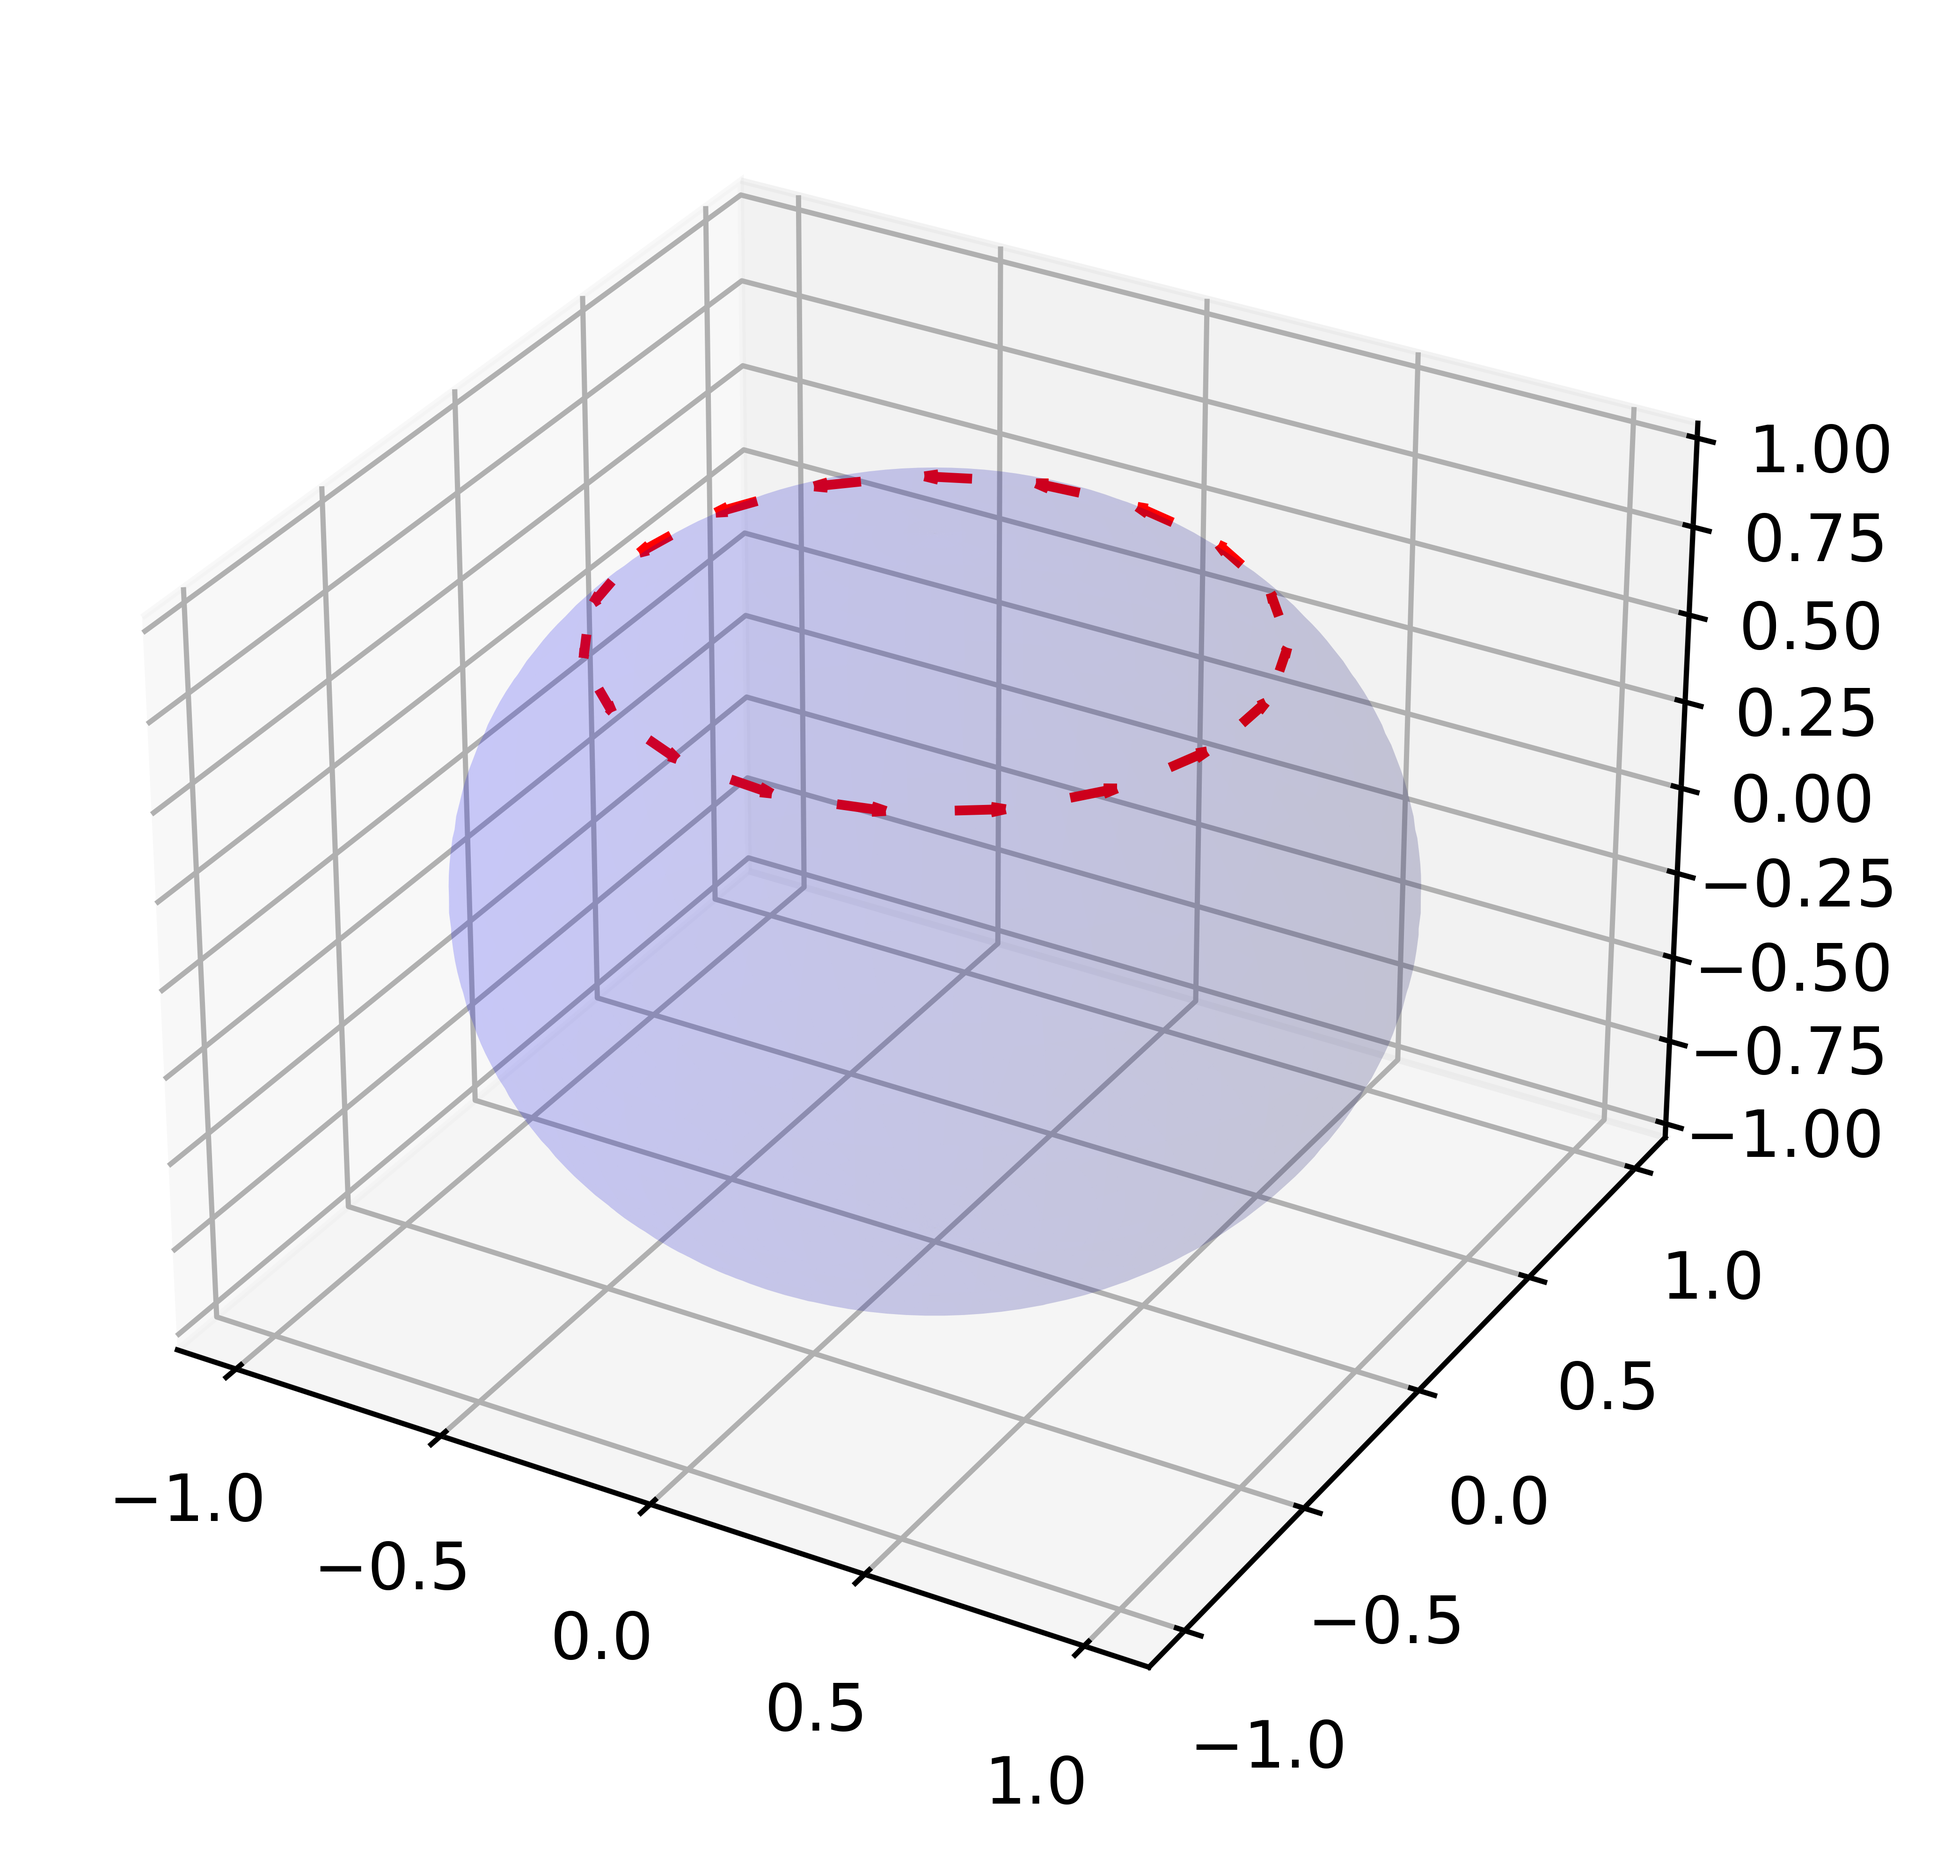
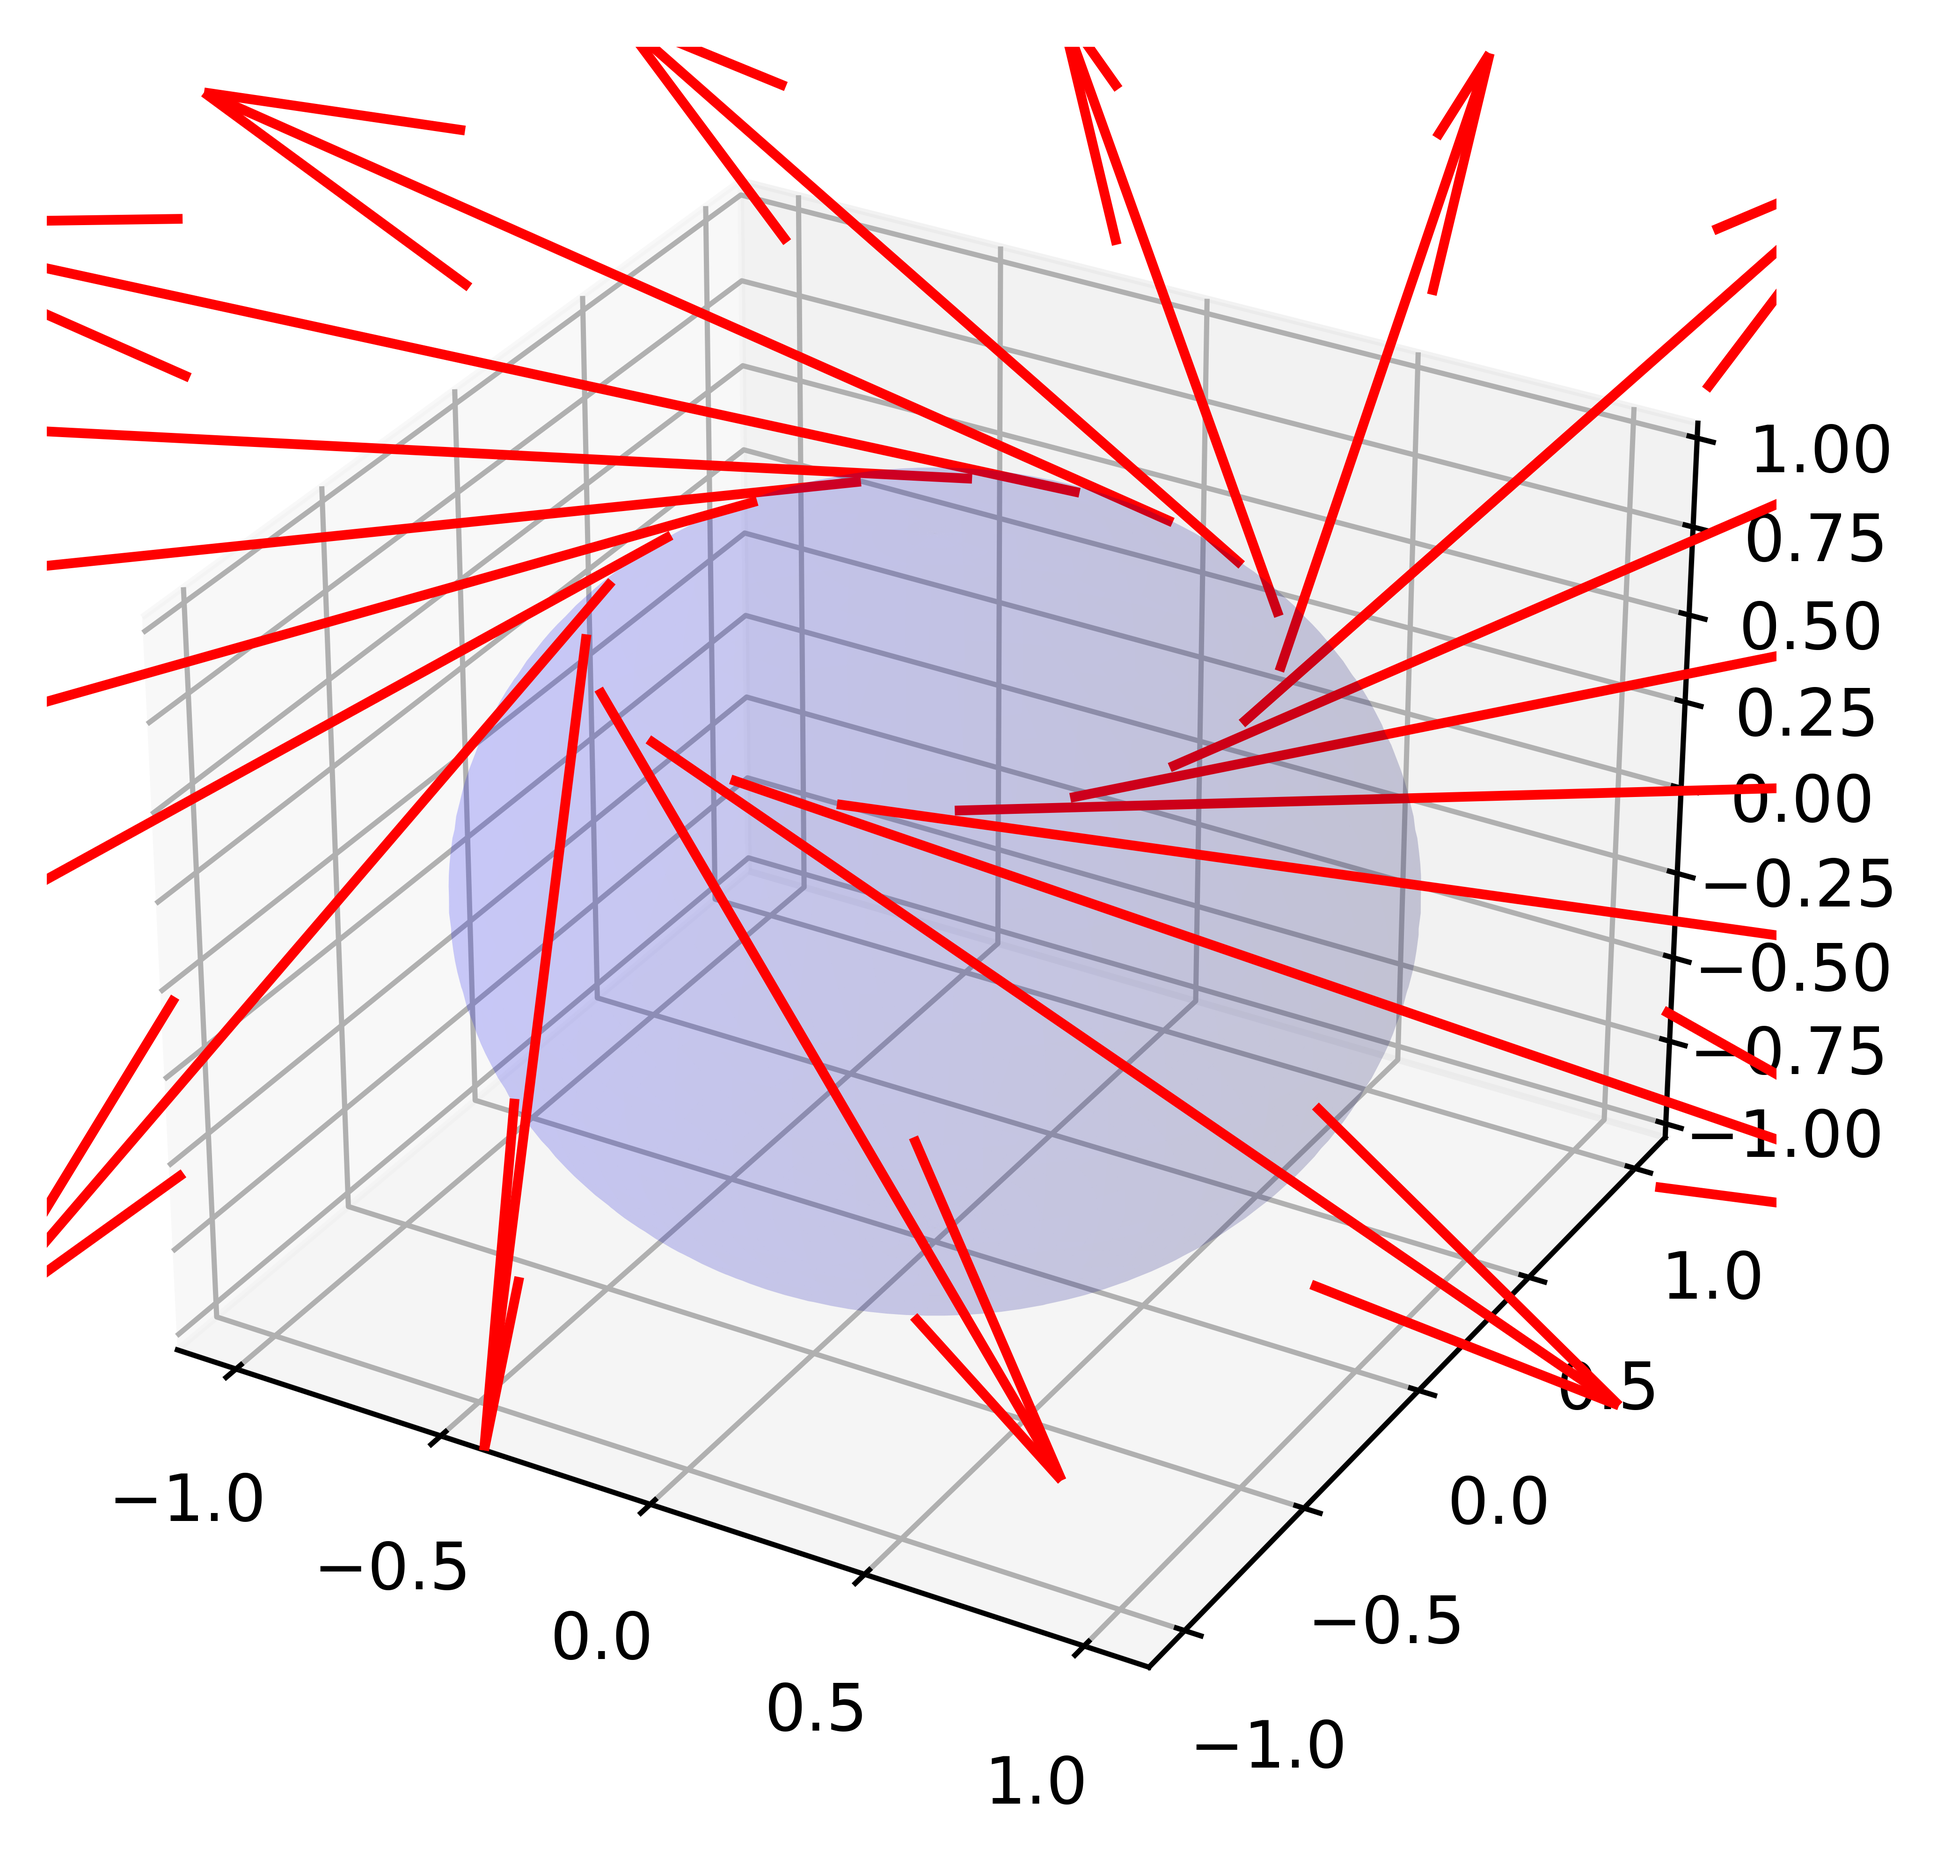
trial

diff --git a/Archive_P2/part_a/angle_check.py b/Archive_P2/part_a/angle_check.py
@@ -1,0 +1,214 @@
+import numpy as np
+import matplotlib.pyplot as plt
+from mpl_toolkits.mplot3d import Axes3D
+
+# ----------------------------------------------------------
+# 1. Spherical coordinates and Stereographic Projection
+# ----------------------------------------------------------
+def sphere_xyz(theta, phi):
+    """
+    Convert spherical coords (theta, phi) -> (x, y, z) on the unit sphere.
+    Using the 'physics' convention:
+       x = sin(theta)*cos(phi),
+       y = sin(theta)*sin(phi),
+       z = cos(theta).
+    """
+    x = np.sin(theta)*np.cos(phi)
+    y = np.sin(theta)*np.sin(phi)
+    z = np.cos(theta)
+    return x, y, z
+
+def stereographic_projection(x, y, z):
+    """
+    (x, y, z) on the sphere -> (x', y') in the plane via
+       x' = x / (1 - z),
+       y' = y / (1 - z).
+    """
+    denom = 1.0 - z
+    xprime = x / denom
+    yprime = y / denom
+    return xprime, yprime
+
+# ----------------------------------------------------------
+# 2. Define Two Non-Special Curves that Intersect at Two Points
+# ----------------------------------------------------------
+#
+# We'll define each curve in terms of a parameter t in [0,1]:
+#   curve_1(t): theta_1(t), phi_1(t)
+#   curve_2(t): theta_2(t), phi_2(t)
+#
+# By choosing the same phi(t) but slightly different theta(t) in a symmetric way,
+# we guarantee that at t=0 and t=0.5, they coincide.
+
+def curve_1(t):
+    """
+    Curve 1 on the sphere:
+      theta_1(t) = 0.5 + 0.1*sin(2πt)
+      phi_1(t)   = 2πt
+    """
+    theta = 0.5 + 0.1 * np.sin(2*np.pi*t)
+    phi   = 2*np.pi * t
+    return sphere_xyz(theta, phi)
+
+def curve_2(t):
+    """
+    Curve 2 on the sphere:
+      theta_2(t) = 0.5 - 0.1*sin(2πt)
+      phi_2(t)   = 2πt
+    """
+    theta = 0.5 - 0.1 * np.sin(2*np.pi*t)
+    phi   = 2*np.pi * t
+    return sphere_xyz(theta, phi)
+
+# These two curves intersect whenever sin(2πt) = 0 => t = 0, 0.5, 1.0, etc.
+# We'll use t=0 and t=0.5 as two distinct intersection points on the sphere.
+
+# ----------------------------------------------------------
+# 3. Numerical Derivatives for Angle Checking
+# ----------------------------------------------------------
+def derivative_curve(curve_func, t0, eps=1e-6):
+    """
+    Numerically approximate the 3D tangent vector d/dt of curve_func(t) at t = t0.
+    curve_func(t) returns (x,y,z) on the sphere.
+    """
+    x0, y0, z0 = curve_func(t0)
+    x1, y1, z1 = curve_func(t0 + eps)
+    return np.array([x1 - x0, y1 - y0, z1 - z0]) / eps
+
+# ----------------------------------------------------------
+# 4. Plotting Setup
+# ----------------------------------------------------------
+fig = plt.figure(figsize=(12, 6))
+
+# Left subplot: 3D sphere
+ax3d = fig.add_subplot(1, 2, 1, projection='3d')
+ax3d.set_title("Two curves intersecting on the sphere")
+
+# Right subplot: Stereographic plane
+ax2d = fig.add_subplot(1, 2, 2)
+ax2d.set_title("Stereographic projection")
+
+# Optional: wireframe for the sphere in 3D
+u = np.linspace(0, 2*np.pi, 30)
+v = np.linspace(0, np.pi, 30)
+xs = np.outer(np.cos(u), np.sin(v))
+ys = np.outer(np.sin(u), np.sin(v))
+zs = np.outer(np.ones_like(u), np.cos(v))
+ax3d.plot_wireframe(xs, ys, zs, color='lightgray', alpha=0.3)
+
+# ----------------------------------------------------------
+# 5. Plot the Curves in 3D and 2D
+# ----------------------------------------------------------
+t_vals = np.linspace(0, 1, 300)
+
+# Curve 1
+x1_list, y1_list, z1_list = [], [], []
+for t in t_vals:
+    x, y, z = curve_1(t)
+    x1_list.append(x); y1_list.append(y); z1_list.append(z)
+
+ax3d.plot(x1_list, y1_list, z1_list, 'r', label='Curve 1')
+
+x1p, y1p = stereographic_projection(np.array(x1_list),
+                                    np.array(y1_list),
+                                    np.array(z1_list))
+ax2d.plot(x1p, y1p, 'r', label='Curve 1')
+
+# Curve 2
+x2_list, y2_list, z2_list = [], [], []
+for t in t_vals:
+    x, y, z = curve_2(t)
+    x2_list.append(x); y2_list.append(y); z2_list.append(z)
+
+ax3d.plot(x2_list, y2_list, z2_list, 'b', label='Curve 2')
+
+x2p, y2p = stereographic_projection(np.array(x2_list),
+                                    np.array(y2_list),
+                                    np.array(z2_list))
+ax2d.plot(x2p, y2p, 'b', label='Curve 2')
+
+# ----------------------------------------------------------
+# 6. Check Angles at Multiple Intersection Points
+# ----------------------------------------------------------
+# The curves intersect when sin(2πt)=0 => t=0, 0.5, 1.0, ...
+# We'll check t=0 and t=0.5 as two distinct intersections.
+intersection_params = [0.0, 0.5]
+
+for i, t_int in enumerate(intersection_params, start=1):
+
+    # 3D intersection coords from curve_1(t_int) == curve_2(t_int)
+    xI1, yI1, zI1 = curve_1(t_int)  # same as curve_2(t_int)
+    
+    # 3D tangents
+    dC1_3d = derivative_curve(curve_1, t_int)
+    dC2_3d = derivative_curve(curve_2, t_int)
+    dot_3d = np.dot(dC1_3d, dC2_3d)
+    angle_3d = np.arccos(
+        dot_3d / (np.linalg.norm(dC1_3d)*np.linalg.norm(dC2_3d))
+    )
+    angle_3d_deg = np.degrees(angle_3d)
+    
+    # 2D intersection coords
+    xIp, yIp = stereographic_projection(xI1, yI1, zI1)
+
+    # 2D tangents (finite difference around t_int)
+    eps = 1e-6
+    # curve_1 step
+    x1_eps, y1_eps, z1_eps = curve_1(t_int + eps)
+    x1p_eps, y1p_eps = stereographic_projection(x1_eps, y1_eps, z1_eps)
+    dC1_2d = np.array([x1p_eps - xIp, y1p_eps - yIp]) / eps
+    
+    # curve_2 step
+    x2_eps, y2_eps, z2_eps = curve_2(t_int + eps)
+    x2p_eps, y2p_eps = stereographic_projection(x2_eps, y2_eps, z2_eps)
+    dC2_2d = np.array([x2p_eps - xIp, y2p_eps - yIp]) / eps
+
+    dot_2d = np.dot(dC1_2d, dC2_2d)
+    angle_2d = np.arccos(
+        dot_2d / (np.linalg.norm(dC1_2d)*np.linalg.norm(dC2_2d))
+    )
+    angle_2d_deg = np.degrees(angle_2d)
+    
+    print(f"\nIntersection #{i} (t={t_int}):")
+    print(f"  Angle in 3D = {angle_3d_deg:.2f} degrees")
+    print(f"  Angle in 2D = {angle_2d_deg:.2f} degrees")
+
+    # Plot intersection on the sphere
+    ax3d.scatter([xI1], [yI1], [zI1], c='k', s=50)
+    ax3d.text(xI1, yI1, zI1,
+              f"{angle_3d_deg:.1f}°",
+              color='k', fontsize=9)
+
+    # Plot intersection in 2D
+    ax2d.scatter([xIp], [yIp], c='k', s=50)
+    ax2d.text(xIp, yIp,
+              f"{angle_2d_deg:.1f}°",
+              color='k', fontsize=9)
+
+# ----------------------------------------------------------
+# 7. Final Plot Adjustments
+# ----------------------------------------------------------
+ax3d.set_xlabel("X")
+ax3d.set_ylabel("Y")
+ax3d.set_zlabel("Z")
+ax3d.set_xlim([-1,1])
+ax3d.set_ylim([-1,1])
+ax3d.set_zlim([-1,1])
+ax3d.view_init(elev=25, azim=45)
+
+ax2d.set_aspect("equal", adjustable="box")
+ax2d.set_xlabel("x'")
+ax2d.set_ylabel("y'")
+
+# Make a legend on the 2D plot (avoid repeated labels)
+handles, labels = ax2d.get_legend_handles_labels()
+unique_handles, unique_labels = [], []
+for h, l in zip(handles, labels):
+    if l not in unique_labels:
+        unique_handles.append(h)
+        unique_labels.append(l)
+ax2d.legend(unique_handles, unique_labels)
+
+plt.tight_layout()
+plt.savefig("angle_check.png", dpi=1000, bbox_inches='tight')
+

diff --git a/Archive_P1/part_f/trial.py b/Archive_P1/part_f/trial.py
@@ -35,7 +35,7 @@ ax.plot_surface(x, y, z, color='b', alpha=0.1)
 for phi in phi_values:
     vector = e_phi(theta_0, phi)
     start_point = spherical_to_cartesian(r, theta_0, phi)
-    ax.quiver(start_point[0], start_point[1], start_point[2], vector[0], vector[1], vector[2], length=0.1, color='r')
+    ax.quiver(start_point[0], start_point[1], start_point[2], vector[0], vector[1], vector[2], length=3, color='r')
 
 # Display the plot
 plt.savefig("parallel_transport_phi.png", dpi=1000, bbox_inches='tight')
